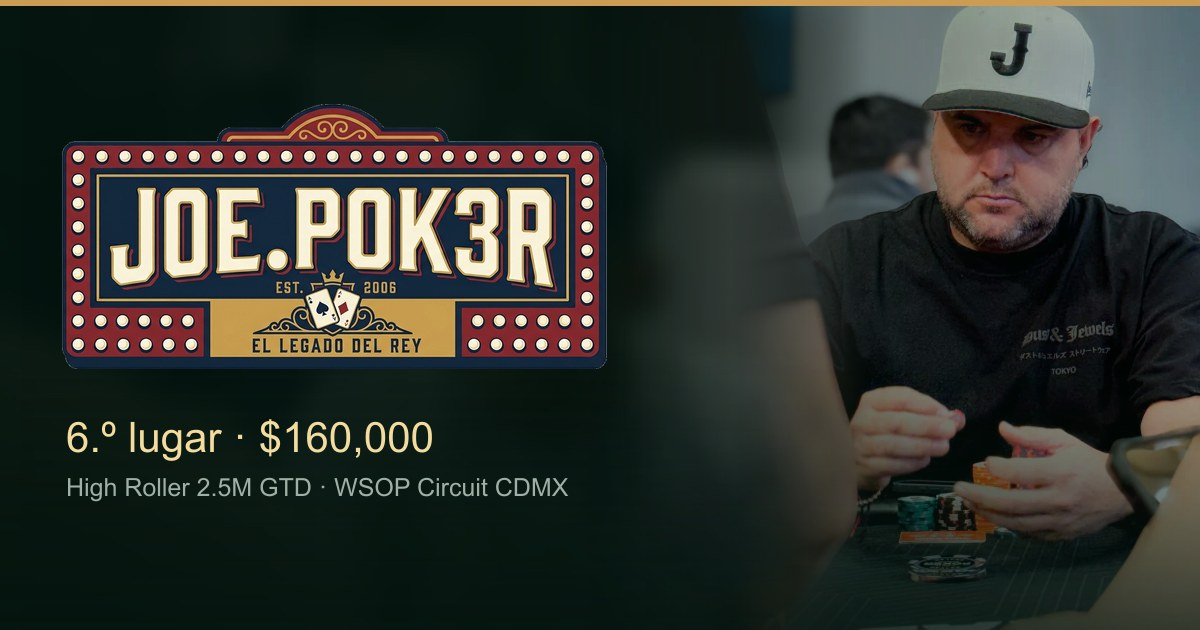
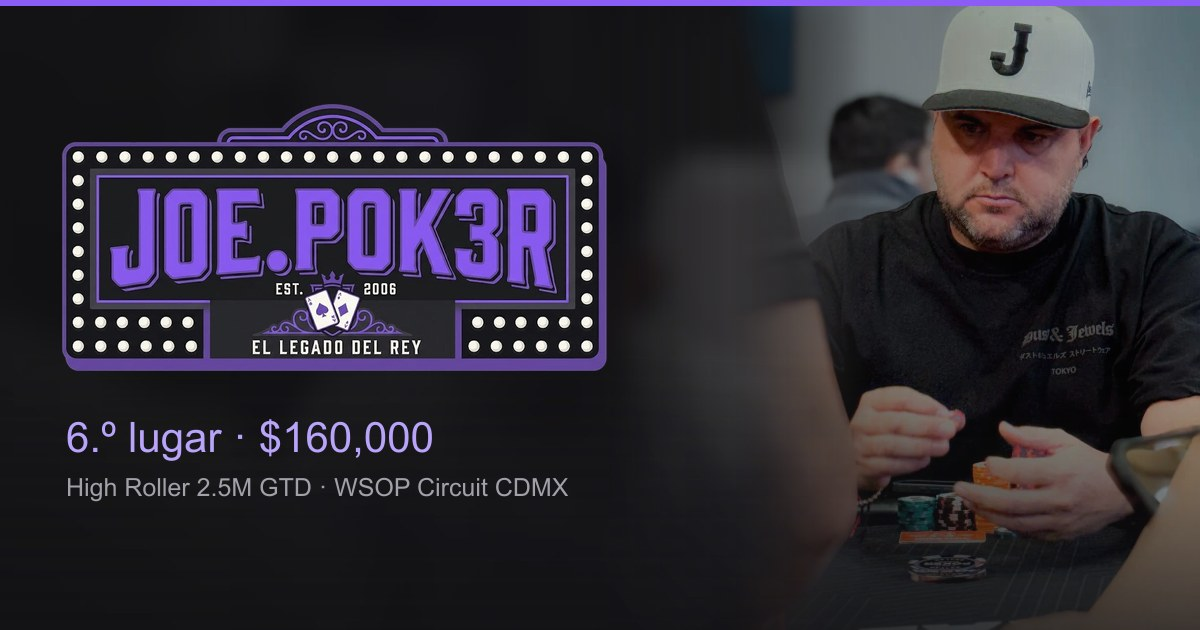
feat: retema a grafito y morado con el arte nuevo
El letrero y el monograma nuevos vienen sobre fondo casi negro: el del
banner es rgb(24,23,28). Ese arte se diseno para grafito, no para pano
verde. Se probaron los dos sobre ambos fondos antes de decidir; sobre
verde el letrero arrastra su propio panel oscuro y se lee como
calcomania pegada, y el monograma magenta choca con el verde.

Los tokens se renombraron porque los viejos mentirian sobre la paleta:
  --felt / --felt-deep   ->  --ground / --ground-deep
  --gold / --gold-bright ->  --accent / --accent-bright

Assets: el letrero morado sustituye al anterior, el monograma JP entra
como favicon del sitio, y la tarjeta de Open Graph se rehizo en grafito.

Tambien se saca next-env.d.ts del lint: lo genera Next en cada build y no
se versiona.

diff --git a/components/gallery.tsx b/components/gallery.tsx
@@ -102,9 +102,9 @@ export function Gallery({ fotos }: { fotos: Foto[] }) {
                 onClick={() => cambiarFiltro(e.id as EventoId | null)}
                 className={cn(
                   'rounded-full border px-3 py-1.5 text-xs transition duration-200',
-                  'focus-visible:outline-2 focus-visible:outline-offset-2 focus-visible:outline-[var(--gold)]',
+                  'focus-visible:outline-2 focus-visible:outline-offset-2 focus-visible:outline-[var(--accent)]',
                   activo
-                    ? 'border-[var(--stroke)] bg-[rgb(217_182_92_/_0.14)] text-[var(--gold-bright)]'
+                    ? 'border-[var(--stroke)] bg-[rgb(139_92_246_/_0.14)] text-[var(--accent-bright)]'
                     : 'border-[var(--stroke-soft)] text-[var(--ink-muted)] hover:border-[var(--stroke)] hover:text-[var(--ink)]',
                 )}
               >
@@ -133,7 +133,7 @@ export function Gallery({ fotos }: { fotos: Foto[] }) {
               ultimoDisparador.current = i
               setAbierta(i)
             }}
-            className="group relative block w-full overflow-hidden rounded-xl border border-[var(--stroke-soft)] bg-[var(--felt-deep)] transition duration-300 hover:border-[var(--stroke)] focus-visible:outline-2 focus-visible:outline-offset-2 focus-visible:outline-[var(--gold)]"
+            className="group relative block w-full overflow-hidden rounded-xl border border-[var(--stroke-soft)] bg-[var(--ground-deep)] transition duration-300 hover:border-[var(--stroke)] focus-visible:outline-2 focus-visible:outline-offset-2 focus-visible:outline-[var(--accent)]"
           >
             <Image
               src={f.src}
@@ -159,13 +159,13 @@ export function Gallery({ fotos }: { fotos: Foto[] }) {
           aria-label={foto.pie}
           tabIndex={-1}
           onClick={cerrar}
-          className="fixed inset-0 z-50 flex flex-col items-center justify-center gap-3 bg-[rgb(2_10_7_/_0.94)] p-4 backdrop-blur-sm focus:outline-none"
+          className="fixed inset-0 z-50 flex flex-col items-center justify-center gap-3 bg-[rgb(10_10_12_/_0.94)] p-4 backdrop-blur-sm focus:outline-none"
         >
           <button
             type="button"
             onClick={cerrar}
             aria-label="Cerrar"
-            className="absolute right-4 top-4 grid size-10 place-items-center rounded-full border border-[var(--stroke-soft)] text-[var(--ink)] transition hover:border-[var(--stroke)] hover:text-[var(--gold-bright)] focus-visible:outline-2 focus-visible:outline-offset-2 focus-visible:outline-[var(--gold)]"
+            className="absolute right-4 top-4 grid size-10 place-items-center rounded-full border border-[var(--stroke-soft)] text-[var(--ink)] transition hover:border-[var(--stroke)] hover:text-[var(--accent-bright)] focus-visible:outline-2 focus-visible:outline-offset-2 focus-visible:outline-[var(--accent)]"
           >
             <X className="size-5" aria-hidden />
           </button>
@@ -179,7 +179,7 @@ export function Gallery({ fotos }: { fotos: Foto[] }) {
                   e.stopPropagation()
                   mover(-1)
                 }}
-                className="absolute left-2 top-1/2 grid size-11 -translate-y-1/2 place-items-center rounded-full border border-[var(--stroke-soft)] bg-[rgb(2_10_7_/_0.6)] text-[var(--ink)] transition hover:border-[var(--stroke)] hover:text-[var(--gold-bright)] focus-visible:outline-2 focus-visible:outline-offset-2 focus-visible:outline-[var(--gold)] sm:left-6"
+                className="absolute left-2 top-1/2 grid size-11 -translate-y-1/2 place-items-center rounded-full border border-[var(--stroke-soft)] bg-[rgb(10_10_12_/_0.6)] text-[var(--ink)] transition hover:border-[var(--stroke)] hover:text-[var(--accent-bright)] focus-visible:outline-2 focus-visible:outline-offset-2 focus-visible:outline-[var(--accent)] sm:left-6"
               >
                 <ChevronLeft className="size-6" aria-hidden />
               </button>
@@ -190,7 +190,7 @@ export function Gallery({ fotos }: { fotos: Foto[] }) {
                   e.stopPropagation()
                   mover(1)
                 }}
-                className="absolute right-2 top-1/2 grid size-11 -translate-y-1/2 place-items-center rounded-full border border-[var(--stroke-soft)] bg-[rgb(2_10_7_/_0.6)] text-[var(--ink)] transition hover:border-[var(--stroke)] hover:text-[var(--gold-bright)] focus-visible:outline-2 focus-visible:outline-offset-2 focus-visible:outline-[var(--gold)] sm:right-6"
+                className="absolute right-2 top-1/2 grid size-11 -translate-y-1/2 place-items-center rounded-full border border-[var(--stroke-soft)] bg-[rgb(10_10_12_/_0.6)] text-[var(--ink)] transition hover:border-[var(--stroke)] hover:text-[var(--accent-bright)] focus-visible:outline-2 focus-visible:outline-offset-2 focus-visible:outline-[var(--accent)] sm:right-6"
               >
                 <ChevronRight className="size-6" aria-hidden />
               </button>

diff --git a/app/globals.css b/app/globals.css
@@ -23,7 +23,7 @@
   }
 
   :focus-visible {
-    outline: 2px solid var(--gold);
+    outline: 2px solid var(--accent);
     outline-offset: 2px;
   }
 }
@@ -39,30 +39,28 @@
 /*
   Tema visual de la landing pública de Joe.Pok3r.
 
-  Vive aparte de `app/globals.css` a propósito: el HUB es grafito + morado y
-  esta página es paño verde + dorado. Todo va acotado a `.joe-theme` para que
-  ninguna variable se escape al resto de la app.
+  Grafito + morado, porque el arte de la marca —el letrero y el monograma— está
+  hecho para fondo oscuro. Todo sigue acotado a `.joe-theme`, que va en el
+  <body>: el tema se lee de un vistazo y no se mezcla con la base de Tailwind.
 */
 
 .joe-theme {
-  --felt: #0b3226;
-  --felt-deep: #04150f;
-  --rail: #120c07;
-  --gold: #d9b65c;
-  --gold-bright: #f3dc9e;
-  --card-red: #e0475c;
-  --ink: #f6f3ea;
-  --ink-muted: #9fb1a6;
-  --stroke: rgb(217 182 92 / 0.22);
-  --stroke-soft: rgb(246 243 234 / 0.09);
-  --sep: rgb(217 182 92 / 0.55);
-  --panel: rgb(4 21 15 / 0.55);
+  --ground: #232329;
+  --ground-deep: #131316;
+  --accent: #8b5cf6;
+  --accent-bright: #b9a4fb;
+  --ink: #f4f4f5;
+  --ink-muted: #a1a1aa;
+  --stroke: rgb(139 92 246 / 0.28);
+  --stroke-soft: rgb(244 244 245 / 0.09);
+  --sep: rgb(139 92 246 / 0.6);
+  --panel: rgb(19 19 22 / 0.6);
 
   position: relative;
   isolation: isolate;
   min-height: 100dvh;
   color: var(--ink);
-  background-color: var(--felt-deep);
+  background-color: var(--ground-deep);
 }
 
 /*
@@ -83,12 +81,12 @@
   pointer-events: none;
 }
 
-/* Capa 1: luz cenital sobre el paño + trama diagonal de fieltro. */
+/* Capa 1: halo morado cenital sobre grafito + trama diagonal muy tenue. */
 .joe-theme::before {
   background-image:
-    repeating-linear-gradient(45deg, rgb(0 0 0 / 0.14) 0 1px, transparent 1px 4px),
-    repeating-linear-gradient(-45deg, rgb(255 255 255 / 0.02) 0 1px, transparent 1px 4px),
-    radial-gradient(125% 95% at 50% -18%, #1a6047 0%, #0f3a2b 38%, var(--felt) 62%, var(--felt-deep) 100%);
+    repeating-linear-gradient(45deg, rgb(0 0 0 / 0.10) 0 1px, transparent 1px 4px),
+    repeating-linear-gradient(-45deg, rgb(255 255 255 / 0.015) 0 1px, transparent 1px 4px),
+    radial-gradient(125% 95% at 50% -18%, #3b3350 0%, #2a2733 38%, var(--ground) 62%, var(--ground-deep) 100%);
 }
 
 /* Capa 2: viñeta. Oscurece las orillas para que el centro pese más. */
@@ -105,36 +103,28 @@
   backdrop-filter: blur(8px);
 }
 
-/* Borde dorado del avatar, imitando el canto de una ficha. */
+/* Borde del avatar, imitando el canto de una ficha. */
 .joe-chip-ring {
   background:
     conic-gradient(
       from 0deg,
-      var(--gold) 0 6deg, transparent 6deg 24deg,
-      var(--gold) 24deg 30deg, transparent 30deg 48deg,
-      var(--gold) 48deg 54deg, transparent 54deg 72deg,
-      var(--gold) 72deg 78deg, transparent 78deg 96deg,
-      var(--gold) 96deg 102deg, transparent 102deg 120deg,
-      var(--gold) 120deg 126deg, transparent 126deg 144deg,
-      var(--gold) 144deg 150deg, transparent 150deg 168deg,
-      var(--gold) 168deg 174deg, transparent 174deg 192deg,
-      var(--gold) 192deg 198deg, transparent 198deg 216deg,
-      var(--gold) 216deg 222deg, transparent 222deg 240deg,
-      var(--gold) 240deg 246deg, transparent 246deg 264deg,
-      var(--gold) 264deg 270deg, transparent 270deg 288deg,
-      var(--gold) 288deg 294deg, transparent 294deg 312deg,
-      var(--gold) 312deg 318deg, transparent 318deg 336deg,
-      var(--gold) 336deg 342deg, transparent 342deg 360deg
+      var(--accent) 0 6deg, transparent 6deg 24deg,
+      var(--accent) 24deg 30deg, transparent 30deg 48deg,
+      var(--accent) 48deg 54deg, transparent 54deg 72deg,
+      var(--accent) 72deg 78deg, transparent 78deg 96deg,
+      var(--accent) 96deg 102deg, transparent 102deg 120deg,
+      var(--accent) 120deg 126deg, transparent 126deg 144deg,
+      var(--accent) 144deg 150deg, transparent 150deg 168deg,
+      var(--accent) 168deg 174deg, transparent 174deg 192deg,
+      var(--accent) 192deg 198deg, transparent 198deg 216deg,
+      var(--accent) 216deg 222deg, transparent 222deg 240deg,
+      var(--accent) 240deg 246deg, transparent 246deg 264deg,
+      var(--accent) 264deg 270deg, transparent 270deg 288deg,
+      var(--accent) 288deg 294deg, transparent 294deg 312deg,
+      var(--accent) 312deg 318deg, transparent 318deg 336deg,
+      var(--accent) 336deg 342deg, transparent 342deg 360deg
     ),
     radial-gradient(closest-side, transparent 88%, rgb(217 182 92 / 0.35) 88%);
-}
-
-/* Carta física: papel hueso, canto vivo, sombra corta. */
-.joe-card {
-  background: linear-gradient(160deg, #fffdf6 0%, #efe9da 100%);
-  box-shadow:
-    0 1px 0 rgb(255 255 255 / 0.8) inset,
-    0 12px 28px -10px rgb(0 0 0 / 0.85);
 }
 
 /*

diff --git a/app/page.tsx b/app/page.tsx
@@ -27,7 +27,7 @@ function Cenefa() {
   return (
     <div
       aria-hidden
-      className="flex items-center justify-center gap-3 text-[var(--gold)]/45"
+      className="flex items-center justify-center gap-3 text-[var(--accent)]/45"
     >
       <span className="h-px w-12 bg-gradient-to-r from-transparent to-[var(--stroke)]" />
       <Palo palo="spade" className="size-3" />
@@ -82,7 +82,7 @@ export default function JoePokerPage() {
             height={640}
             sizes="128px"
             priority
-            className="size-28 rounded-full border-2 border-[var(--felt-deep)] object-cover sm:size-32"
+            className="size-28 rounded-full border-2 border-[var(--ground-deep)] object-cover sm:size-32"
           />
         </div>
 
@@ -92,7 +92,7 @@ export default function JoePokerPage() {
           {joe.rol}
         </p>
 
-        <p className="mt-3 inline-flex items-center gap-1.5 rounded-full border border-[var(--stroke)] bg-[rgb(217_182_92_/_0.08)] px-3 py-1 text-xs text-[var(--gold-bright)]">
+        <p className="mt-3 inline-flex items-center gap-1.5 rounded-full border border-[var(--stroke)] bg-[rgb(139_92_246_/_0.08)] px-3 py-1 text-xs text-[var(--accent-bright)]">
           <MapPin aria-hidden className="size-3.5" />
           {joe.ubicacion}
         </p>
@@ -114,7 +114,7 @@ export default function JoePokerPage() {
               key={s.etiqueta}
               className="joe-panel flex flex-col items-center rounded-xl px-2 py-4 text-center"
             >
-              <dd className="font-[family-name:var(--font-display)] text-3xl leading-none text-[var(--gold-bright)] sm:text-4xl">
+              <dd className="font-[family-name:var(--font-display)] text-3xl leading-none text-[var(--accent-bright)] sm:text-4xl">
                 {s.valor}
               </dd>
               <dt className="mt-2 text-[0.7rem] uppercase tracking-[0.14em] text-[var(--ink)]">
@@ -161,7 +161,7 @@ export default function JoePokerPage() {
             {joe.plataformas.map((plataforma) => (
               <span
                 key={plataforma}
-                className="rounded-full border border-[var(--stroke)] bg-[rgb(217_182_92_/_0.08)] px-2.5 py-0.5 text-xs text-[var(--gold-bright)]"
+                className="rounded-full border border-[var(--stroke)] bg-[rgb(139_92_246_/_0.08)] px-2.5 py-0.5 text-xs text-[var(--accent-bright)]"
               >
                 {plataforma}
               </span>

diff --git a/components/reels.tsx b/components/reels.tsx
@@ -97,16 +97,16 @@ export function Reels({ reels }: { reels: Reel[] }) {
                 <button
                   type="button"
                   onClick={() => reproducir(i)}
-                  className="group/play absolute inset-0 grid place-items-center bg-[rgb(2_10_7_/_0.35)] transition-colors hover:bg-[rgb(2_10_7_/_0.15)] focus-visible:outline-2 focus-visible:outline-offset-2 focus-visible:outline-[var(--gold)]"
+                  className="group/play absolute inset-0 grid place-items-center bg-[rgb(10_10_12_/_0.35)] transition-colors hover:bg-[rgb(10_10_12_/_0.15)] focus-visible:outline-2 focus-visible:outline-offset-2 focus-visible:outline-[var(--accent)]"
                 >
                   <span className="sr-only">Reproducir: {reel.titulo}</span>
-                  <span className="grid size-14 place-items-center rounded-full border border-[var(--stroke)] bg-[rgb(2_10_7_/_0.6)] backdrop-blur-sm transition-transform duration-200 group-hover/play:scale-105">
+                  <span className="grid size-14 place-items-center rounded-full border border-[var(--stroke)] bg-[rgb(10_10_12_/_0.6)] backdrop-blur-sm transition-transform duration-200 group-hover/play:scale-105">
                     <Play
                       aria-hidden
-                      className="size-6 translate-x-px fill-[var(--gold-bright)] text-[var(--gold-bright)]"
+                      className="size-6 translate-x-px fill-[var(--accent-bright)] text-[var(--accent-bright)]"
                     />
                   </span>
-                  <span className="absolute bottom-2 right-2 rounded-full bg-[rgb(2_10_7_/_0.75)] px-2 py-0.5 text-[0.65rem] tabular-nums text-[var(--ink)]">
+                  <span className="absolute bottom-2 right-2 rounded-full bg-[rgb(10_10_12_/_0.75)] px-2 py-0.5 text-[0.65rem] tabular-nums text-[var(--ink)]">
                     {duracion(reel.seg)}
                   </span>
                 </button>

diff --git a/components/link-row.tsx b/components/link-row.tsx
@@ -15,7 +15,7 @@ export function LinkRow({ enlace }: { enlace: Enlace }) {
         className={cn(
           'grid size-10 shrink-0 place-items-center rounded-full border transition-colors',
           enlace.destacado
-            ? 'border-[var(--stroke)] bg-[rgb(217_182_92_/_0.12)] text-[var(--gold-bright)]'
+            ? 'border-[var(--stroke)] bg-[rgb(139_92_246_/_0.12)] text-[var(--accent-bright)]'
             : 'border-[var(--stroke-soft)] bg-[rgb(255_255_255_/_0.04)] text-[var(--ink)]',
         )}
       >
@@ -34,7 +34,7 @@ export function LinkRow({ enlace }: { enlace: Enlace }) {
       {enlace.url ? (
         <ArrowUpRight
           aria-hidden
-          className="size-4 shrink-0 text-[var(--ink-muted)] transition-transform duration-200 group-hover:-translate-y-0.5 group-hover:translate-x-0.5 group-hover:text-[var(--gold-bright)]"
+          className="size-4 shrink-0 text-[var(--ink-muted)] transition-transform duration-200 group-hover:-translate-y-0.5 group-hover:translate-x-0.5 group-hover:text-[var(--accent-bright)]"
         />
       ) : (
         <span className="shrink-0 rounded-full border border-[var(--stroke-soft)] px-2 py-0.5 text-[0.65rem] uppercase tracking-[0.08em] text-[var(--ink-muted)]">
@@ -61,8 +61,8 @@ export function LinkRow({ enlace }: { enlace: Enlace }) {
       className={cn(
         clases,
         'joe-link group transition duration-200',
-        'hover:-translate-y-0.5 hover:border-[var(--stroke)] hover:bg-[rgb(4_21_15_/_0.75)]',
-        'focus-visible:outline-2 focus-visible:outline-offset-2 focus-visible:outline-[var(--gold)]',
+        'hover:-translate-y-0.5 hover:border-[var(--stroke)] hover:bg-[rgb(19_19_22_/_0.75)]',
+        'focus-visible:outline-2 focus-visible:outline-offset-2 focus-visible:outline-[var(--accent)]',
       )}
     >
       {contenido}

diff --git a/app/layout.tsx b/app/layout.tsx
@@ -49,7 +49,7 @@ export const metadata: Metadata = {
 }
 
 export const viewport: Viewport = {
-  themeColor: '#04150f',
+  themeColor: '#131316',
   colorScheme: 'dark',
 }
 
@@ -69,7 +69,7 @@ export default function RootLayout({
       <body className="joe-theme">
         <a
           href="#contenido"
-          className="sr-only focus:not-sr-only focus:absolute focus:left-4 focus:top-4 focus:z-50 focus:rounded-md focus:bg-[var(--panel)] focus:px-3 focus:py-2 focus:text-sm focus:outline-2 focus:outline-offset-2 focus:outline-[var(--gold)]"
+          className="sr-only focus:not-sr-only focus:absolute focus:left-4 focus:top-4 focus:z-50 focus:rounded-md focus:bg-[var(--panel)] focus:px-3 focus:py-2 focus:text-sm focus:outline-2 focus:outline-offset-2 focus:outline-[var(--accent)]"
         >
           Saltar al contenido
         </a>
